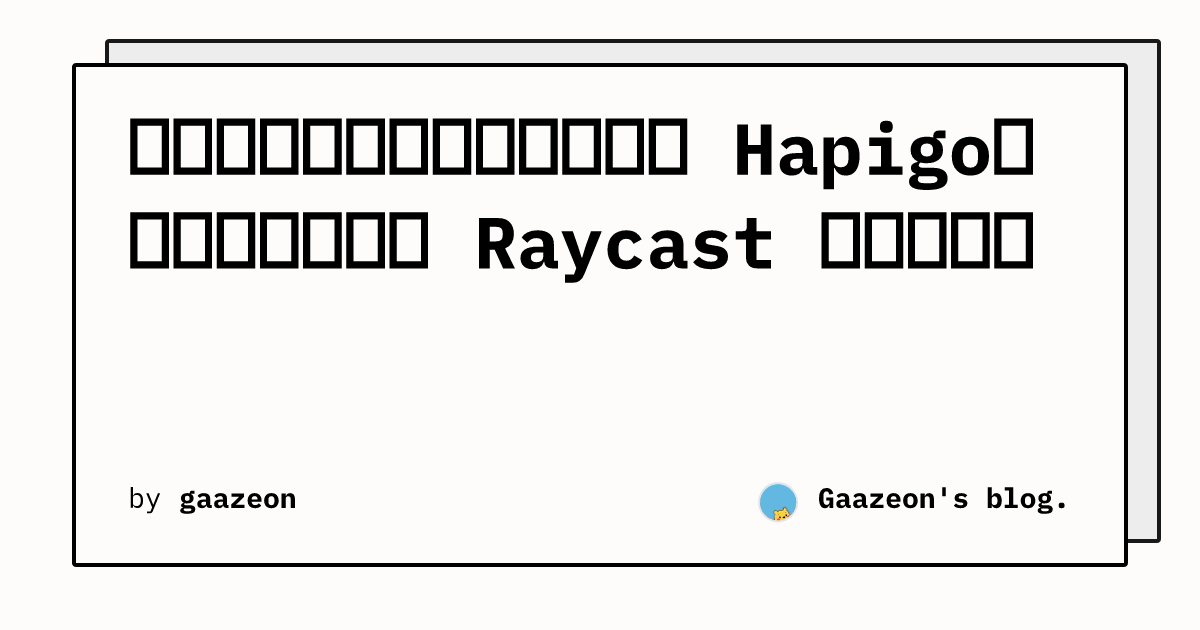
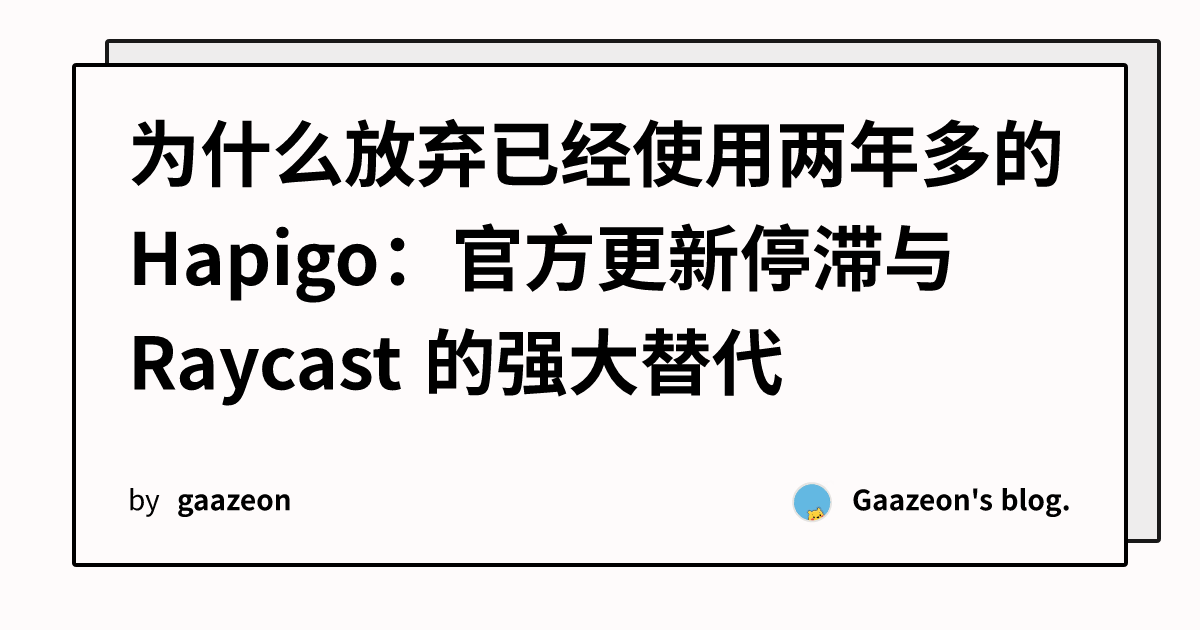
feat: Update Google Fonts in loadGoogleFont.ts
The commit updates the Google Fonts in the `loadGoogleFont.ts` file. It replaces the existing font "IBM Plex Mono" with "Noto Sans SC" and adds a new font "Noto Sans". The weights and styles of the fonts are also modified.

diff --git a/src/utils/loadGoogleFont.ts b/src/utils/loadGoogleFont.ts
@@ -45,16 +45,23 @@ async function loadGoogleFonts(
 > {
   const fontsConfig = [
     {
-      name: "IBM Plex Mono",
-      font: "IBM+Plex+Mono",
+      name: "Noto Sans SC",
+      font: "Noto+Sans+SC",
       weight: 400,
       style: "normal",
     },
     {
-      name: "IBM Plex Mono",
-      font: "IBM+Plex+Mono:wght@700",
+      name: "Noto Sans SC",
+      font: "Noto+Sans+SC:wght@700",
       weight: 700,
-      style: "bold",
+      style: "normal",
+    },
+    { name: "Noto Sans", font: "Noto+Sans", weight: 400, style: "normal" },
+    {
+      name: "Noto Sans",
+      font: "Noto+Sans:wght@700",
+      weight: 700,
+      style: "normal",
     },
   ];
 
